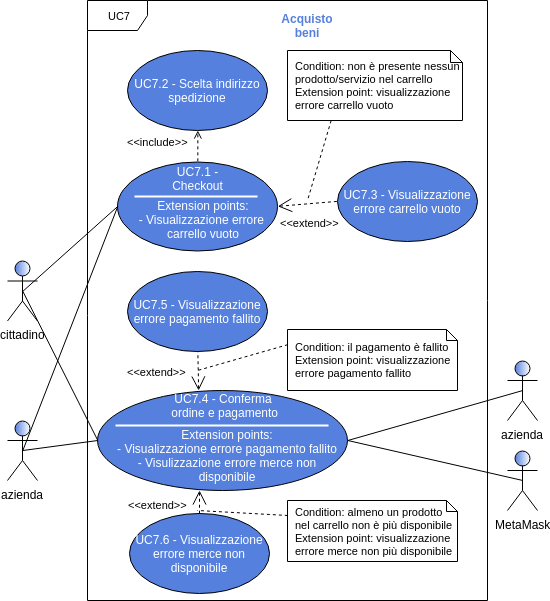
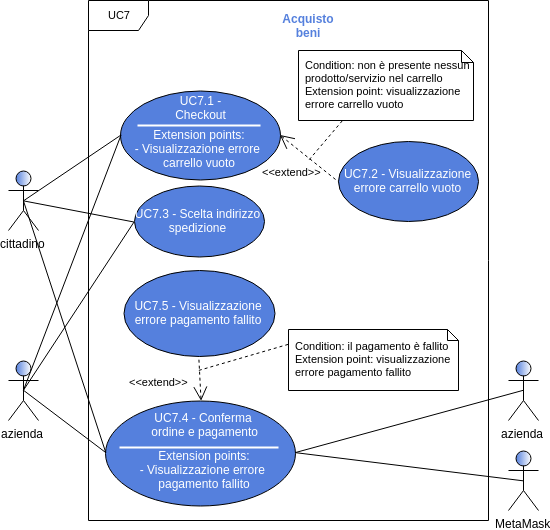
sistemato intro e UC7

Changed region(s): [[0.0, 0.0, 1.0, 1.0], [0.7109, 0.2415, 0.7727, 0.2717]]

diff --git a/RR/Esterni/Analisi_dei_requisiti/res/sections/UC/UC7-AcquistoBeni.tex b/RR/Esterni/Analisi_dei_requisiti/res/sections/UC/UC7-AcquistoBeni.tex
@@ -12,112 +12,27 @@
 	\begin{enumerate}[label=\alph*.]
 		\item l'utente inserisce dei prodotti nel carrello [UC6.1];
 		\item l'utente procede con il checkout dei prodotti precedentemente inseriti [UC7.1];
-		\item l'utente effettua la conferma ed il pagamento dell'ordine;
-	\end{enumerate}.
+		\item l'utente sceglie l'indirizzo di spedizione [UC7.3];
+		\item l'utente effettua la conferma ed il pagamento dell'ordine [UC7.4];
+	\end{enumerate}
 	
 	\item \textbf{Precondizione}: il sistema ha reso disponibile all'utente l'utilizzo del carrello per poter effettuare degli acquisti. L'utente ha inserito degli oggetti nel carrello ed ha espresso la volontà di acquistare tali prodotti;
-	\item \textbf{Postcondizione}: è stato effettuato l'acquisto dei beni presenti nel carrello. Se l'utente è cittadino, allora l'ordine è concluso e viene effettuato il pagamento all'azienda venditrice. Viceversa, nel caso il cliente fosse un'azienda, allora viene applicato il meccanismo di escrow\glo. L'azienda cliente riceve la conferma d'acquisto\glo. Entro la data ultima di approvazione l'azienda potrà approvare o rifiutare l'ordine. I soldi del pagamento sono temporaneamente trattenuti nella piattaforma.
+	\item \textbf{Postcondizione}: è stato effettuato l'acquisto dei beni presenti nel carrello. Viene applicato il meccanismo di escrow\glo. Il cliente riceve la conferma d'acquisto\glo. Entro la data ultima di approvazione esso potrà approvare o rifiutare l'ordine. I soldi del pagamento sono temporaneamente trattenuti nella piattaforma.
 \end{itemize} 
 \subsubsection{UC7.1 - Checkout}
 \begin{itemize}
 	\item \textbf{Attori Primari}: cittadino, azienda;
 	\item \textbf{Descrizione}: l'utente effettua il checkout per poter poi acquistare i prodotti inseriti nel carrello;
 	\item \textbf{Scenario principale}: l'utente preme il pulsante per effettuare il checkout;
-	\item \textbf{Inclusioni}: 
-	\begin{itemize}
-		\item \textbf{UC7.6}: l'utente inserisce l'indirizzo di spedizione;
-	\end{itemize}
 	\item \textbf{Estensioni}: 
 	\begin{itemize}
-		\item \textbf{UC7.4}: l'utente preme il pulsante di checkout senza aver ancora inserito almeno un prodotto/servizio nel carrello;
+		\item \textbf{UC7.2}: l'utente preme il pulsante di checkout senza aver ancora inserito almeno un prodotto/servizio nel carrello;
 	\end{itemize}
 	\item \textbf{Precondizione}: il sistema ha reso disponibile il carrello all'utente, identificandolo quindi come cittadino o azienda. L'utente ha espresso la volontà di procedere con il checkout premendo l'apposito pulsante;
 	\item \textbf{Postcondizione}: l'utente accede alla pagina dove poter confermare l'acquisto e procedere con il pagamento.
 \end{itemize}
 
-\subsubsection{UC7.2 - Conferma ordine e pagamento cittadino}
-\begin{itemize}
-	\item \textbf{Attori Primari}: cittadino;
-	\item \textbf{Attori Secondari}: azienda-venditrice, MetaMask\glo;
-	\item \textbf{Descrizione}: l'utente visualizza il contenuto del carrello ed ha la possibilità di confermare l'ordine e procedere al pagamento che avviene attraverso l'utilizzo del plugin Metamask\glo;
-	\item \textbf{Scenario principale}: l'utente preme il pulsante per effettuare il checkout;
-	\item \textbf{Inclusioni}: 
-	\begin{itemize}
-		\item \textbf{UC6.2}: l'utente visualizza un riepilogo di tutti i prodotti presenti all'interno del carrello.
-	\end{itemize}
-	\item \textbf{Estensioni}: 
-	\begin{itemize}
-		\item \textbf{UC7.5}: l'utente tenta il pagamento ma l'esito non va a buon fine. La causa del fallimento dell'operazione è gestito dal plugin stesso.
-	\end{itemize}
-	\item \textbf{Precondizione}: il sistema ha reso disponibile il riepilogo dei prodotti con la possibilità di effettuare la conferma dell'ordine ed il pagamento. Almeno un elemento era stato inserito nel carrello; 
-	\item \textbf{Postcondizione}: l'utente ha portato a termine la procedura di acquisto dei prodotti/servizi presenti nel carrello. L'azienda venditrice ha ricevuto il pagamento dal cliente e l'ordine è aggiunto alla lista delle fatture dell'azienda. Al cliente viene segnalato il successo dell'operazione.
-\end{itemize}
-\subsubsection{UC7.3 - Pagamento aziendale}
-\begin{figure}[H]
-	\includegraphics[width=10cm]{res/images/UC7-PagamentoAzienda.png}
-	\centering
-	\caption{UC7.3 - Procedura di pagamento da parte delle aziende}
-\end{figure}
-\begin{itemize}
-	\item \textbf{Attori Primari}: azienda-cliente;
-	\item \textbf{Attori Secondari}: azienda-venditrice, MetaMask\glo;
-	\item \textbf{Descrizione}: le aziende hanno un processo di pagamento differente dai cittadini, possono scegliere fra pagamento immediato e dilazionato\glo;
-	\item \textbf{Scenario principale}: l'azienda sceglie un metodo di pagamento [UC7.3.1] tra il pagamento immediato [UC7.3.2] ed il pagamento dilazionato [UC7.3.3]. Successivamente dovrà approvare la proposta d'ordine dal proprio account per ottenere la fatturazione;
-	\item \textbf{Inclusioni}: 
-	\begin{itemize}
-		\item \textbf{UC6.2}: l'utente visualizza un riepilogo di tutti i prodotti presenti all'interno del carrello.
-	\end{itemize}
-	\item \textbf{Precondizione}: il sistema ha reso disponibile il riepilogo dei prodotti con la possibilità di scegliere il metodo di pagamento ed effettuare la conferma dell'ordine;
-	\item \textbf{Postcondizione}: è stato scelto il metodo di pagamento e l'ordine è stato effettuato con successo. All'azienda cliente viene inviata una proposta d'ordine e vengono spiegati i passi successivi da seguire per accettare tale proposta, in maniera da validare l'ordine e ricevere la fattura.
-\end{itemize} 
-
-\subsubsection{UC7.3.1 - Selezione metodo di pagamento}
-\begin{itemize}
-	\item \textbf{Attori Primari}: azienda;
-	\item \textbf{Descrizione}: l'utente visualizza le possibili modalità di pagamento, immediato e dilazionato\glo, seleziona uno dei due metodi e conferma la scelta;
-	\item \textbf{Scenario principale}: l'utente seleziona una modalità di pagamento e conferma l'ordine, per poi procedere al pagamento;
-	\item \textbf{Precondizione}: il sistema ha reso disponibile la scelta del metodo di pagamento e la conferma dell'ordine;
-	\item \textbf{Postcondizione}: l'utente ha selezionato la modalità di pagamento per l'ordine corrente e l'ordine è stato confermato, il sistema procede con la procedura di pagamento selezionata.
-\end{itemize}
-
-\subsubsection{UC7.3.2 - Pagamento immediato}
-\begin{itemize}
-	\item \textbf{Attori Primari}: azienda-cliente;
-	\item \textbf{Attori Secondari}: azienda-venditrice, MetaMask\glo;
-	\item \textbf{Descrizione}: l'utente procede con il pagamento immediato: l'azienda-cliente versa l'importo dell'ordine nel sistema attraverso l'utilizzo del plugin MetaMask\glo. Viene inviata automaticamente la proposta d'ordine dall'azienda-venditrice all'azienda-cliente. Al cliente viene spiegato come procedere per confermare l'ordine e ricevere la fattura IVA;
-	\item \textbf{Scenario principale}: l'utente procede con il pagamento attraverso l'ausilio del plugin MetaMask\glo;
-	\item \textbf{Estensioni}: 
-	\begin{itemize}
-		\item \textbf{UC7.5}: l'utente tenta il pagamento ma l'esito non va a buon fine. La causa del fallimento dell'operazione è gestito dal plugin stesso.
-	\end{itemize}
-	\item \textbf{Precondizione}: il sistema ha reso disponibile il pagamento dell'ordine;
-	\item \textbf{Postcondizione}: l'utente ha portato a termine la procedura di acquisto. Il sistema ha ricevuto il pagamento dal cliente, il cliente riceve, nella pagina dedicata, la proposta d'ordine. Al cliente viene comunicato il successo dell'operazione e le istruzioni per procedere all'accettazione della proposta d'ordine. Nella pagina dedicata dell'azienda venditrice compare l'acquisto con lo stato di attesa di approvazione.
-\end{itemize}
-
-\subsubsection{UC7.3.3 - Pagamento dilazionato}
-\begin{itemize}
-	\item \textbf{Attori Primari}: azienda-cliente;
-	\item \textbf{Attori Secondari}: azienda-venditrice, MetaMask\glo;
-	\item \textbf{Descrizione}: l'utente procede con il pagamento dilazionato: l'azienda-cliente sceglie di quanto dilazionare il pagamento, e conferma l'operazione con MetaMask\glo. Viene inviata automaticamente la proposta d'ordine dall'azienda-venditrice all'azienda-cliente. Al cliente viene spiegato come procedere per confermare l'ordine;
-	\item \textbf{Scenario principale}: l'utente procede con la conferma dell'operazione attraverso l'ausilio del plugin MetaMask\glo;
-	\item \textbf{Inclusioni}: 
-	\begin{itemize}
-		\item \textbf{UC 7.3.4}: l'utente deve selezionare il periodo per la dilazione del pagamento;
-	\end{itemize}
-	\item \textbf{Precondizione}: il sistema ha reso disponibile il pagamento dell'ordine;
-	\item \textbf{Postcondizione}: l'utente ha portato a termine la procedura di acquisto con pagamento dilazionato. Il cliente riceve, nella pagina dedicata, la proposta d'ordine. Al cliente viene comunicato il successo dell'operazione e le istruzioni per procedere all'accettazione della proposta d'ordine. Nella pagina dedicata dell'azienda venditrice compare l'acquisto con lo stato di attesa di approvazione con pagamento dilazionato.
-\end{itemize}
-\subsubsection{UC7.3.4 - Selezione mesi per la dilazione}
-\begin{itemize}
-	\item \textbf{Attori Primari}: azienda-cliente;
-	\item \textbf{Attori Secondari}: azienda-venditrice, MetaMask\glo;
-	\item \textbf{Descrizione}: l'utente seleziona il numero di mesi dei quali deve essere dilazionato il pagamento;
-	\item \textbf{Scenario principale}: l'utente seleziona la durata della dilazione durante la procedura di pagamento dilazionato\glo;
-	\item \textbf{Precondizione}: l'utente sta eseguendo la procedura per il pagamento dilazionato;
-	\item \textbf{Postcondizione}: l'utente ha selezionato la durata in mesi per la dilazione del pagamento.
-\end{itemize}
-
-\subsubsection{UC7.4 - Visualizzazione errore carrello vuoto}
+\subsubsection{UC7.2 - Visualizzazione errore carrello vuoto}
 \begin{itemize}
 	\item \textbf{Attori Primari}: azienda;
 	\item \textbf{Descrizione}:
@@ -127,6 +42,39 @@
 	\item \textbf{Postcondizione}:
 	l'utente è consapevole che, per procedere con il checkout, il carrello deve contenere almeno un prodotto/servizio. 
 \end{itemize}
+
+\subsubsection{UC7.3 - Scelta indirizzo spedizione}
+\begin{itemize}
+	\item \textbf{Attori Primari}: azienda, cittadino;
+	\item \textbf{Descrizione}:
+	l'utente dopo aver effettuato il checkout deve selezionare l'indirizzo di spedizione. Gli vengono presentate due possibilità:
+	\begin{itemize}
+		\item utilizzare l'indirizzo inserito durante la registrazione;
+		\item inserire un nuovo indirizzo da utilizzare per questa spedizione, inserendo le informazioni relative ad un indirizzo [UC2.2.2];
+	\end{itemize}
+	\item \textbf{Scenario principale}: l'utente dopo aver richiesto il checkout, per continuare nel procedimento di acquisto, deve selezionare un indirizzo di spedizione;
+	\item \textbf{Precondizione}: l'utente ha eseguito il checkout;
+	\item \textbf{Postcondizione}:
+	l'utente ha inserito l'indirizzo di spedizione e può continuare concludendo il procedimento di acquisto. Tale indirizzo verrà utilizzato per la creazione della relativa fattura.
+\end{itemize}
+
+
+
+\subsubsection{UC7.4 - Conferma ordine e pagamento}
+\begin{itemize}
+	\item \textbf{Attori Primari}: azienda-cliente;
+	\item \textbf{Attori Secondari}: azienda-venditrice, MetaMask\glo;
+	\item \textbf{Descrizione}: l'utente dopo aver selezionato con la selezione dell'indirizzo di spedizione procede con la conferma ed il pagamento dell'ordine;
+	\item \textbf{Scenario principale}: l'azienda conferma l'ordine premendo l'apposito pulsante. Segue dunque la procedura di pagamento attraverso l'utilizzo del plugin MetaMask\glo;
+	\item \textbf{Estensioni}: 
+	\begin{itemize}
+		\item \textbf{UC7.4}: l'esito del pagamento da parte del plugin MetaMask\glosp risulta negativo, l'utente riceve un messaggio di errore che lo invita a controllare la causa d'errore direttamente dal plugin; 
+	\end{itemize}
+	\item \textbf{Precondizione}: l'utente ha effettuato il checkout e l'inserimento dell'ordine;
+	\item \textbf{Postcondizione}: il pagamento è avvenuto con successo. L'importo della transazione momentaneamente è trattenuto dal sistema in quanto scatta il meccanismo di escrow\glo. Il cliente riceve nella pagina dedicata la conferma d'acquisto\glo. L'azienda-venditrice riceve nella pagina dedicata l'ordine non ancora confermato relativo al suddetto ordine.
+\end{itemize}
+
+
 \subsubsection{UC7.5 - Visualizzazione errore pagamento fallito}
 \begin{itemize}
 	\item \textbf{Attori Primari}: azienda;
@@ -137,15 +85,10 @@
 	\item \textbf{Precondizione}: il sistema permette all'utente di procedere con il pagamento, ovvero l'ordine è stato confermato da parte dell'utente;
 	\item \textbf{Postcondizione}:
 	l'utente è consapevole che l'acquisto non è andato a buon fine, e che ottenere informazioni più precise dovrà riferirsi al messaggio di errore riportato dal plugin. 
-\end{itemize}
+\end{itemize} 
 
-\subsubsection{UC7.6 - Inserimento indirizzo spedizione}
-\begin{itemize}
-	\item \textbf{Attori Primari}: azienda, cittadino;
-	\item \textbf{Descrizione}:
-	l'utente visualizza un form dove inserire l'indirizzo di spedizione.
-	\item \textbf{Scenario principale}: l'utente sta eseguendo la fase di checkout e per continuare deve inserire tale indirizzo;
-	\item \textbf{Precondizione}: l'utente sta eseguendo la procedura di checkout;
-	\item \textbf{Postcondizione}:
-	l'utente ha inserito l'indirizzo di spedizione e può continuare concludendo il checkout. Tale indirizzo potrà essere utilizzato per la creazione della relativa fattura.
-\end{itemize}
+
+
+
+
+

diff --git a/RR/Esterni/Analisi_dei_requisiti/res/sections/UC/UC9-10-ConiazioneDistribuzioneCubit.tex b/RR/Esterni/Analisi_dei_requisiti/res/sections/UC/UC9-10-ConiazioneDistribuzioneCubit.tex
@@ -4,13 +4,13 @@
 	\item \textbf{Attori Secondari}: MetaMask\glo;
 	\item \textbf{Descrizione}: viene coniata una quantità definita di Cubit\glo;
 	
-	\item \textbf{Scenario principale}: il governo ritiene necessario coniare ulteriori Cubit\glosp rispetto a quelli attualmente presenti sul mercato. Per fare ciò deve accedere alla pagina dedicata in cui, attraverso un form dovrà:
+	\item \textbf{Scenario principale}: il governo ritiene necessario coniare ulteriori Cubit rispetto a quelli attualmente presenti sul mercato. Per fare ciò deve accedere alla pagina dedicata in cui, attraverso un form dovrà:
 	 \begin{enumerate}[label=\alph*.]
 		\item inserire la quantità di Cubit \texttt{x} da coniare;
 		\item confermare tale operazione attraverso l'utilizzo di MetaMask\glo;
 	\end{enumerate}
-	\item \textbf{Precondizione}: siano \texttt{x} i Cubit\glosp che il governo vuole coniare e \texttt{n} i Cubit\glosp attualmente in circolo. L'utente governativo è acceduto alla pagina per la coniazione ed ha compilato e confermato il form;
-	\item \textbf{Postcondizione}: i Cubit\glosp in circolo sono \texttt{n+x}.
+	\item \textbf{Precondizione}: siano \texttt{x} i Cubit che il governo vuole coniare e \texttt{n} i Cubit attualmente in circolo. L'utente governativo è acceduto alla pagina per la coniazione ed ha compilato e confermato il form;
+	\item \textbf{Postcondizione}: i Cubit in circolo sono \texttt{n+x}.
 \end{itemize}
 \subsubsection{UC10 - Distribuzione Cubit}
 %non capisco perchè la figura è prima del titolo sul PDF
@@ -23,7 +23,7 @@
 \begin{itemize}
 	\item \textbf{Attori Primari}: governo;
 	\item \textbf{Attori Secondari}: MetaMask\glo, cittadino, azienda\glo;
-	\item \textbf{Descrizione}: il governo versa una quantità di Cubit\glosp sull'account di uno o più  utenti, che siano essi cittadini o aziende. Questi ricevono la quantità di Cubit\glosp definita da parte del governo;
+	\item \textbf{Descrizione}: il governo versa una quantità di Cubit sull'account di uno o più  utenti, che siano essi cittadini o aziende. Questi ricevono la quantità di Cubit definita da parte del governo;
 	\item \textbf{Scenario principale}: il governo deve:
 	 \begin{enumerate}[label=\alph*.]
 		\item scegliere la quantità di Cubit pro capite da distribuire [UC10.1];
@@ -31,16 +31,16 @@
 		\item confermare l'operazione [UC10.3];
 	\end{enumerate}
 
-	\item \textbf{Precondizione}: il governo accede alla pagina contenente il form per la distribuzione di Cubit\glosp agli utenti e compila il suddetto form;
-	\item \textbf{Postcondizione}: tali utenti ricevono i Cubit\glosp da parte del governo.
+	\item \textbf{Precondizione}: il governo accede alla pagina contenente il form per la distribuzione di Cubit agli utenti e compila il suddetto form;
+	\item \textbf{Postcondizione}: tali utenti ricevono i Cubit da parte del governo.
 \end{itemize}
 \subsubsection{UC10.1 - Inserimento quantità}
 \begin{itemize}
 	\item \textbf{Attori Primari}: governo;
 	\item \textbf{Descrizione}: il governo inserisce nell'apposito campo del form la quantità di Cubit\glosp da distribuire, ritenendo la quantità inserita come quantità da inviare ad ogni singolo utente;
-	\item \textbf{Scenario principale}: il governo inserisce una quantità \texttt{x} di Cubit\glosp da inviare;
-	\item \textbf{Precondizione}: il governo accede alla pagina contenente il form per la distribuzione di Cubit\glosp agli utenti e compila il campo relativo alla quantità;
-	\item \textbf{Postcondizione}: il campo relativo alla quantità di Cubit\glosp da distribuire pro capite è stato compilato. 
+	\item \textbf{Scenario principale}: il governo inserisce una quantità \texttt{x} di Cubit da inviare;
+	\item \textbf{Precondizione}: il governo accede alla pagina contenente il form per la distribuzione di Cubit agli utenti e compila il campo relativo alla quantità;
+	\item \textbf{Postcondizione}: il campo relativo alla quantità di Cubit da distribuire pro capite è stato compilato. 
 \end{itemize}
 \subsubsection{UC10.2 - Inserimento destinatari}
 \begin{itemize}
@@ -48,7 +48,7 @@
 	\item \textbf{Attori Secondari}: cittadino, azienda;
 	\item \textbf{Descrizione}: il governo inserisce nell'apposito form la lista dei destinatari della quantità di Cubit\glosp precedentemente inserita;
 	\item \textbf{Scenario principale}: il governo inserisce una lista di destinatari, identificati dalle proprie chiavi\glo;
-	\item \textbf{Precondizione}: il governo sa quanti e quali utenti riceveranno la somma di Cubit\glosp selezionata, è necessario quindi aver inserito una quantità di Cubit\glosp da distribuire;
+	\item \textbf{Precondizione}: il governo sa quanti e quali utenti riceveranno la somma di Cubit selezionata, è necessario quindi aver inserito una quantità di Cubit da distribuire;
 	\item \textbf{Postcondizione}: il governo ha inserito la lista dei destinatati e può procedere con l'approvazione della transazione.
 \end{itemize}
 \subsubsection{UC10.3 - Approvazione transazione}
@@ -59,17 +59,17 @@
 	\item \textbf{Scenario principale}: il governo ha appena inserito una quantità \texttt{x} di Cubit\glosp da distribuire ad ogni singolo utente e ha inoltre selezionato una lista di \texttt{y} utenti;
 	\item \textbf{Estensioni}:
 	\begin{itemize}
-		\item \textbf{UC10.4}: il governo vedrà un messaggio di errore se \texttt{x*y} supera la quantità di Cubit\glosp disponibili alla distribuzione;
+		\item \textbf{UC10.4}: il governo vedrà un messaggio di errore se \texttt{x*y} supera la quantità di Cubit disponibili alla distribuzione;
 	\end{itemize}
 	\item \textbf{Precondizione}: è necessario aver selezionato una lista di utenti e una quantità da distribuire ad ogni singolo utente;
-	\item \textbf{Postcondizione}: ogni utente riceverà nel proprio wallet\glosp la quantità di Cubit\glosp distribuita dal governo.
+	\item \textbf{Postcondizione}: ogni utente riceverà nel proprio wallet\glosp la quantità di Cubit distribuita dal governo.
 \end{itemize}
 \subsubsection{UC10.4 - Visualizzazione messaggio di errore relativo al raggiungimento della soglia massima di Cubit distribuiti}
 \begin{itemize}
 	\item \textbf{Attori Primari}: governo;
 	\item \textbf{Descrizione}: il governo riceve un messaggio di errore relativo al fatto che ha selezionato una quantità di Cubit\glosp superiore a quella disponibile alla distribuzione;
 	\item \textbf{Scenario principale}: il governo clicca sull'apposito pulsante per confermare la transazione di distribuzione ma non ha sufficienti fondi per completare tale operazione;
-	\item \textbf{Precondizione}: il governo deve aver inserito una quantità di Cubit\glosp superiore a quella disponibile ed ha cercato di approvare la transazione;
+	\item \textbf{Precondizione}: il governo deve aver inserito una quantità di Cubit superiore a quella disponibile ed ha cercato di approvare la transazione;
 	\item \textbf{Postcondizione}: il governo ora è a conoscenza del fatto che se vorrà distribuire la somma selezionata, dovrà avere sufficienti fondi.
 	
 \end{itemize} 

diff --git a/RR/Esterni/Analisi_dei_requisiti/res/sections/descrizione_generale.tex b/RR/Esterni/Analisi_dei_requisiti/res/sections/descrizione_generale.tex
@@ -15,25 +15,22 @@ L'applicativo deve offrire oltre alle funzionalità di compravendita di servizi 
 	\item cittadini ed aziende:
 	\begin{enumerate}[label=\alph*.]
 		\item autenticarsi alla piattaforma utilizzando il plug-in MetaMask\glo;
-		\item acquistare prodotti offerti dalle aziende presenti sulla piattaforma; 
+		\item acquistare prodotti offerti dalle aziende presenti sulla piattaforma. Il sistema di pagamento include il meccanismo di escrow\glo:
+		
+		\begin{itemize}
+			\item \textbf{deposito dei beni}: il cliente, durante il procedimento di acquisto, versa la somma dovuta nella piattaforma, dove verrà momentaneamente trattenuta. Il cliente riceve una conferma d'ordine\glosp nel proprio account, e l'ordine viene aggiunto alle vendite in attesa di conferma dell'azienda-venditrice. La vera fattura conterrà gli stessi dati della conferma d'ordine\glo, ma verrà compilata all'approvazione di quest'ultima, per poterne riportare la data corretta. La compilazione sarà eseguita dal sistema, quindi l'escrow\glosp è da considerarsi già in possesso di entrambi i beni;
+			\item \textbf{riscatto beni}: all'approvazione, esplicita o automatica della conferma d'ordine da parte del cliente, esso riceve la fattura, mentre l'azienda-venditrice riceve i soldi trattenuti dal sistema, oltre che al poter accedere alla fattura a sua volta.
+		\end{itemize}
+		Questo sistema è adottato per garantire che ad ogni ordine il cliente riceva la fattura per dimostrare l'acquisto effettuato, e che l'azienda-venditrice riceva il pagamento. Con l'adozione di tale meccanismo viene semplificata la gestione dell'IVA, in quanto tutte le fatture emesse sono state approvate, e quindi da considerarsi prive di errori. 
 	\end{enumerate}
 	\item le aziende possono:
 	\begin{enumerate}[label=\alph*.]
 		\item registrare la propria attività commerciale sulla piattaforma;
+		\item mettere in vendita i loro beni e servizi;
 		\item gestire i prodotti e/o servizi offerti, ovvero devono essere disponibili le funzionalità di inserimento, rimozione e modifica;
 		\item gestire ordini, conferme d'ordine e fatture. Per garantire un metodo di pagamento più sicuro tra le aziende, nel sistema avvengono due tipologie di ordine:
 		
-		\begin{enumerate}[label=\roman*.]
-			\item \textbf{ordine azienda-cittadino}: durante il procedimento di acquisto il sistema provvede a sottrarre la somma dovuta al cittadino. L'ordine viene aggiunto nella lista degli ordini conclusi del cittadino. La fattura relativa a tale ordine viene aggiunta alle fatture di vendita dell'azienda;
-			\item \textbf{ordine azienda-azienda}: per garantire che ad ogni ordine l'azienda-cliente riceva la fattura per dimostrare l'acquisto effettuato, e che l'azienda-venditrice riceva il pagamento, si è deciso di adottare un meccanismo di \textbf{escrow\glo}:
-			\begin{enumerate}[label=\alph*.]
-				\item l'azienda-cliente, durante il procedimento di acquisto, versa la somma dovuta nella piattaforma, dove verrà momentaneamente trattenuta;
-				\item l'azienda-cliente riceve una conferma d'ordine\glo, e l'ordine viene aggiunto alle vendite in attesa di conferma dell'azienda-venditrice;
-				\item all'approvazione, esplicita o automatica della conferma d'ordine, l'azienda-cliente riceve la fattura, mentre l'azienda-venditrice riceve i soldi trattenuti dal sistema, oltre che al poter accedere alla fattura a sua volta.
-			\end{enumerate}
-			
-		\end{enumerate}
-		Con l'adozione di tale meccanismo viene semplificata la gestione dell'IVA, in quanto tutte le fatture emesse sono state approvate, e quindi da considerarsi prive di errori. 
+	
 		\item scaricare le informazioni relative al saldo IVA trimestrale sotto forma di documento PDF;
 		\item effettuare il versamento dell'IVA al governo\glosp nel caso in cui il saldo trimestrale evidenzi una situazione di debito;
 		\item dilazionare il versamento dell'IVA al governo\glosp nel caso in cui il saldo trimestrale evidenzi una situazione di debito.

diff --git a/RR/Esterni/Analisi_dei_requisiti/res/sections/UC/UC1-2-GuidaRegistrazione.tex b/RR/Esterni/Analisi_dei_requisiti/res/sections/UC/UC1-2-GuidaRegistrazione.tex
@@ -104,7 +104,7 @@
 	\item CAP;
 
 	\end{itemize}
-	\item \textbf{Scenario principale}: l'utente compila il campo relativo all'indirizzo di residenza;
+	\item \textbf{Scenario principale}: l'utente compila i campi relativo all'indirizzo di residenza;
 	\item \textbf{Precondizione}: il sistema ha reso disponibile il campo per l'inserimento dell'indirizzo di residenza;
 	\item \textbf{Postcondizione}: l'utente ha compilato il campo con l'indirizzo relativo alla residenza.
 \end{itemize}
@@ -128,8 +128,7 @@
 	\item \textbf{Scenario principale}: l'utente ha cliccato sul pulsante di registrazione di un cittadino, il sistema rende disponibile il form di registrazione relativo e l'utente compila tutti i campi necessari. In particolare, oltre ai dati account:
 	\begin{enumerate}[label=\alph*.]
 		\item l'utente inserisce il proprio nome [UC2.3.1];
-		\item l'utente inserisce il proprio cognome [UC2.3.2];
-		\item l'utente inserisce il proprio codice fiscale [UC2.3.3].
+		\item l'utente inserisce il proprio cognome [UC2.3.2].
 	\end{enumerate}
 	\item \textbf{Precondizione}: l'utente ha espresso la volontà di iscriversi alla piattaforma cliccando il link per la registrazione come cittadino. Il sistema ha rilevato e salvato una chiave\glosp valida attraverso il plug-in MetaMask\glo;
 	\item \textbf{Postcondizione}: l'utente ha compilato i campi relativi alla registrazione di un cittadino alla piattaforma.

diff --git a/RR/Esterni/Analisi_dei_requisiti/res/sections/UC/UC3-4-LoginLogout.tex b/RR/Esterni/Analisi_dei_requisiti/res/sections/UC/UC3-4-LoginLogout.tex
@@ -11,7 +11,7 @@
 	\item \textbf{Attori Secondari}:
 	MetaMask\glo;
 	\item \textbf{Descrizione}:
-	l'utente prova a farsi identificare tramite l'interfaccia web per mezzo di MetaMask\glo;
+	l'utente tenta di autenticarsi alla piattaforma attraverso l'utilizzo di MetaMask\glo;
 	\item \textbf{Scenario principale}:
 	l'utente non è identificato dal sito ed esegue il login;
 	\item \textbf{Precondizione}:
@@ -81,7 +81,7 @@
 	MetaMask\glo;
 	\item \textbf{Descrizione}: l'utente richiede il logout dalla piattaforma web ed effettua ciò tramite MetaMask\glo;
 	\item \textbf{Scenario principale}: l'utente è identificato dal sito ed esegue il logout;
-	\item \textbf{Precondizione}: l'utente è identificato dalla piattaforma web e richiede di essere disconnesso dal sito;
+	\item \textbf{Precondizione}: l'utente ha effettuato il login alla piattaforma web e richiede di essere disconnesso dal sito;
 	\item \textbf{Postcondizione}: vengono fornite le istruzioni necessarie per eseguire il logout tramite MetaMask\glo. 
 \end{itemize}
 \subsubsection{UC4.1 - Richiesta disconnessione}

diff --git a/RR/Esterni/Analisi_dei_requisiti/res/sections/UC/UC5-Visualizzazione-beni.tex b/RR/Esterni/Analisi_dei_requisiti/res/sections/UC/UC5-Visualizzazione-beni.tex
@@ -1,10 +1,9 @@
- \subsubsection{UC5 - Visualizzazione beni}
+ \subsubsection{UC5 - Visualizzazione beni e servizi}
  \begin{itemize}
  	\item \textbf{Attori Primari}: utente autenticato;
  	\item \textbf{Descrizione}: l'utente visualizza una lista dettagliata di informazioni relative ad un bene o servizio, esse comprendono:
  	\begin{itemize}
  		\item visualizzazione nome;
- 		\item visualizzazione quantità;
  		\item visualizzazione prezzo lordo (in Cubit\glo);
  		\item visualizzazione descrizione;
  		\item visualizzazione immagine prodotto;
